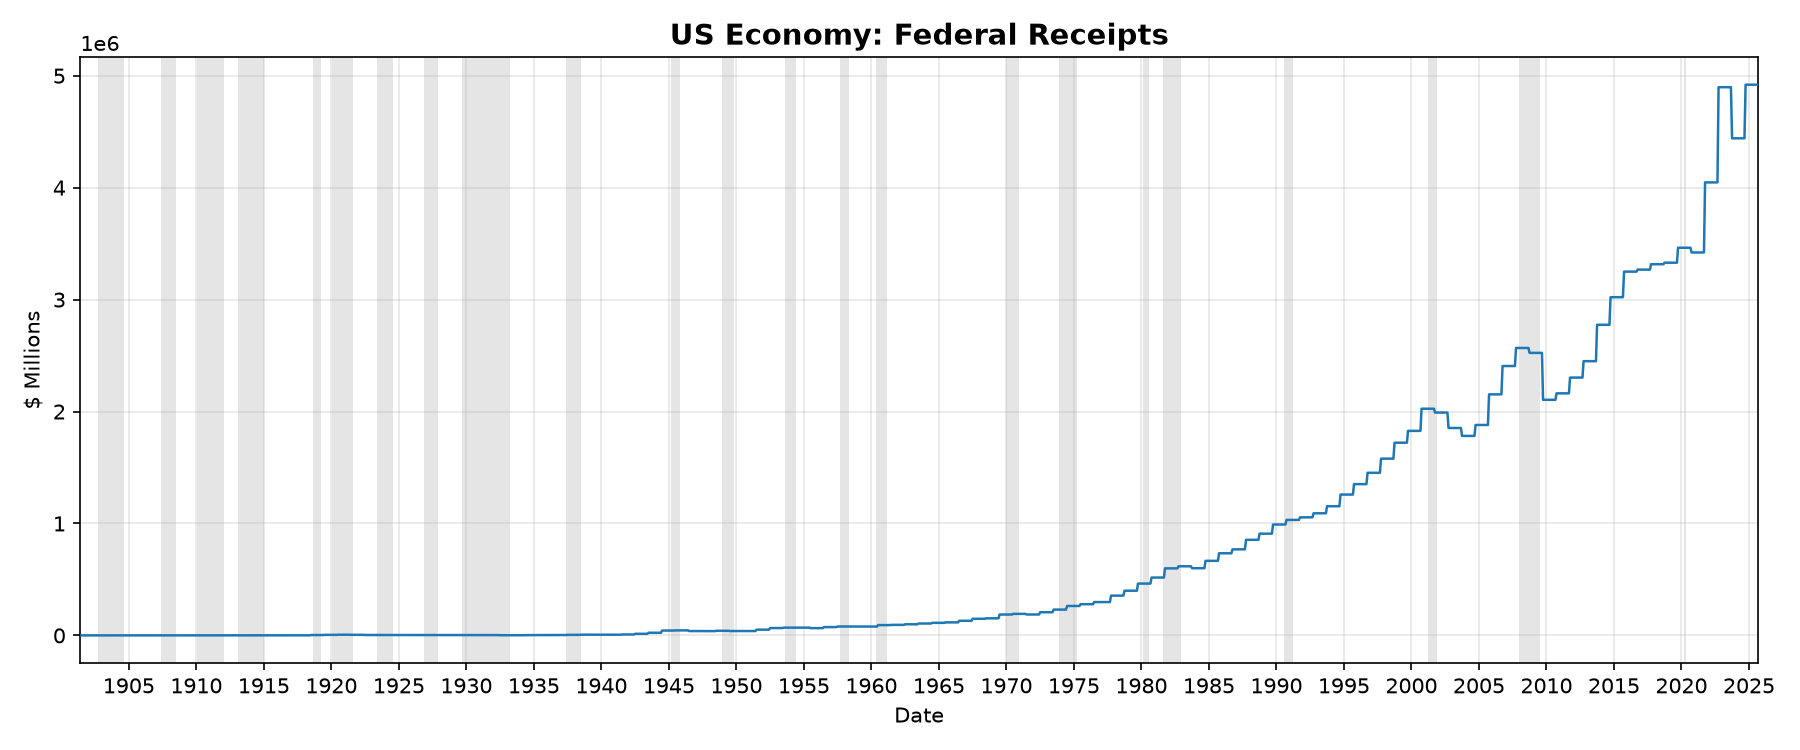
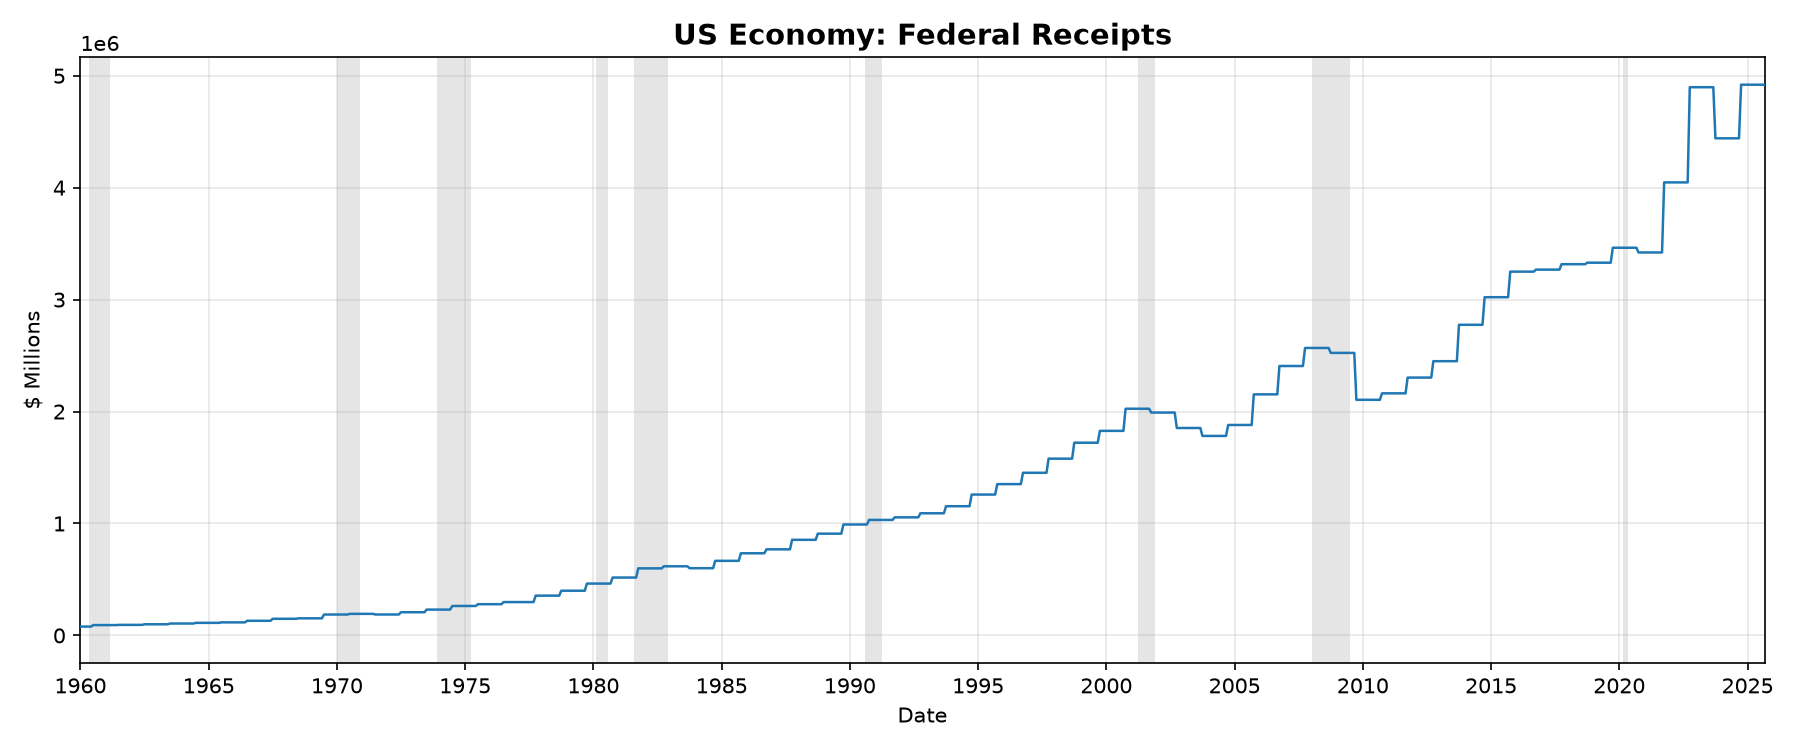
Start all plots from 1960

Changed region(s): [[0.0311, 0.0307, 0.9956, 0.9813]]

diff --git a/plot_data.py b/plot_data.py
@@ -110,8 +110,8 @@ def plot_individual(series: pd.Series, label: str, y_label: str, group: str,
     ax.set_title(f"US Economy: {label}", fontsize=14, fontweight="bold")
     ax.set_ylabel(y_label)
     ax.set_xlabel("Date")
-    # Clip x-axis to data range
-    ax.set_xlim(series.index.min(), series.index.max())
+    # Clip x-axis: start 1960, end at data range
+    ax.set_xlim(pd.Timestamp("1960-01-01"), series.index.max())
     ax.xaxis.set_major_locator(mdates.YearLocator(5))
     ax.xaxis.set_major_formatter(mdates.DateFormatter("%Y"))
     ax.grid(True, alpha=0.3)
@@ -169,10 +169,9 @@ def plot_overlay(all_series: dict[str, pd.Series],
         ax.legend(loc="upper left", fontsize=8)
         ax.grid(True, alpha=0.3)
 
-    # Clip x-axis to the common data range across all overlay series
-    all_min = min(s.index.min() for s in all_series.values() if not s.dropna().empty)
+    # Clip x-axis: start 1960, end at data range
     all_max = max(s.index.max() for s in all_series.values() if not s.dropna().empty)
-    axes[-1].set_xlim(all_min, all_max)
+    axes[-1].set_xlim(pd.Timestamp("1960-01-01"), all_max)
 
     axes[-1].set_xlabel("Date")
     axes[-1].xaxis.set_major_locator(mdates.YearLocator(5))
